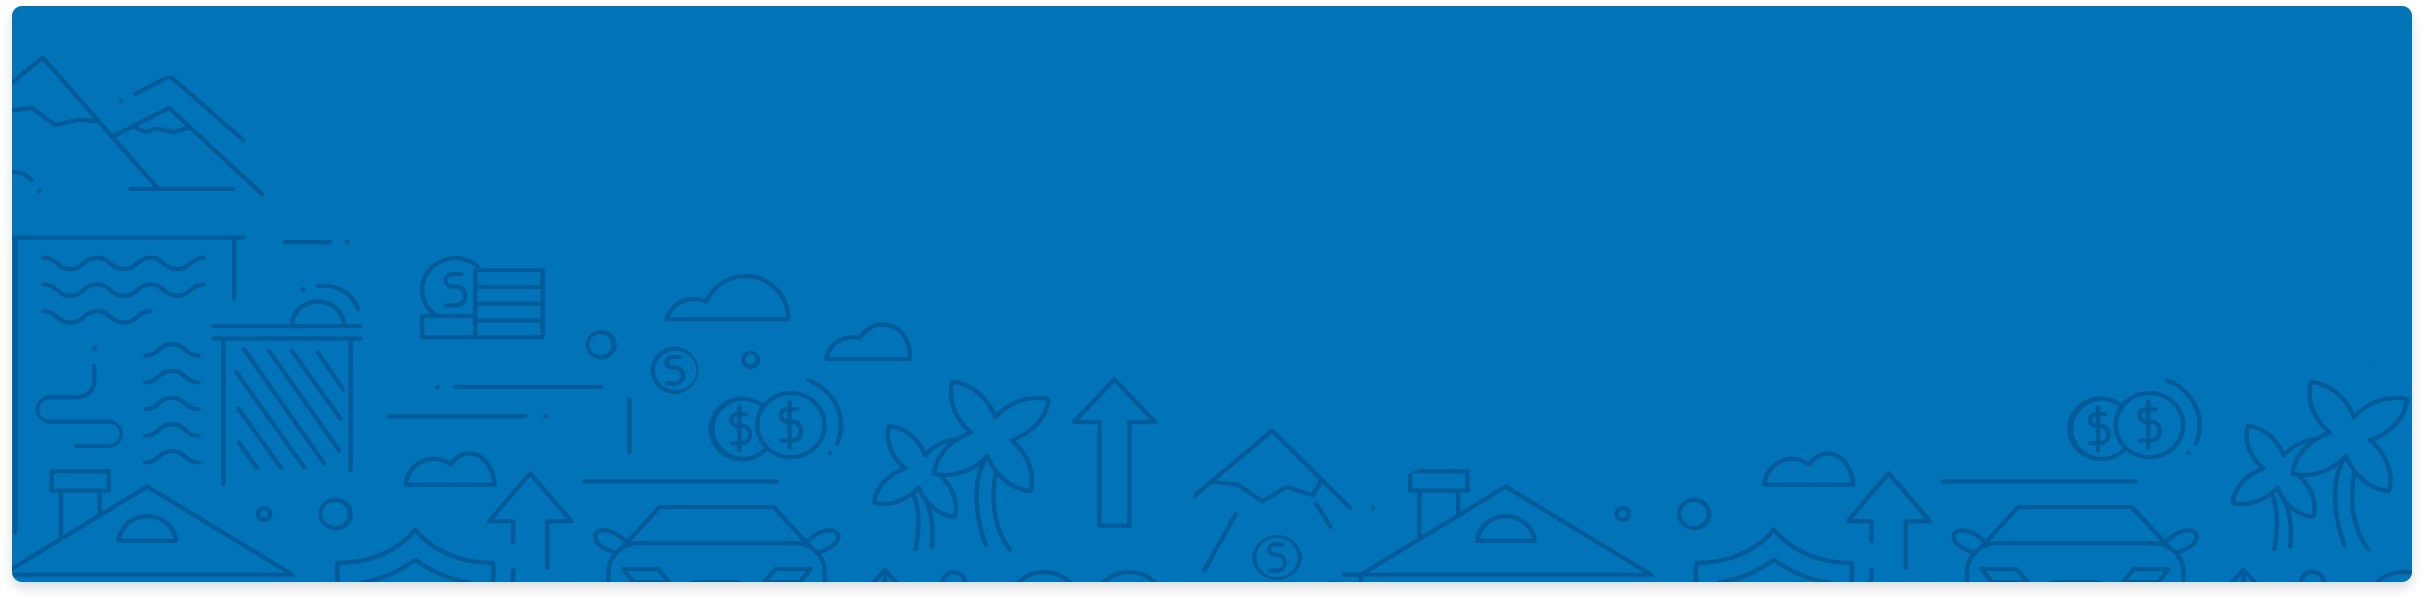
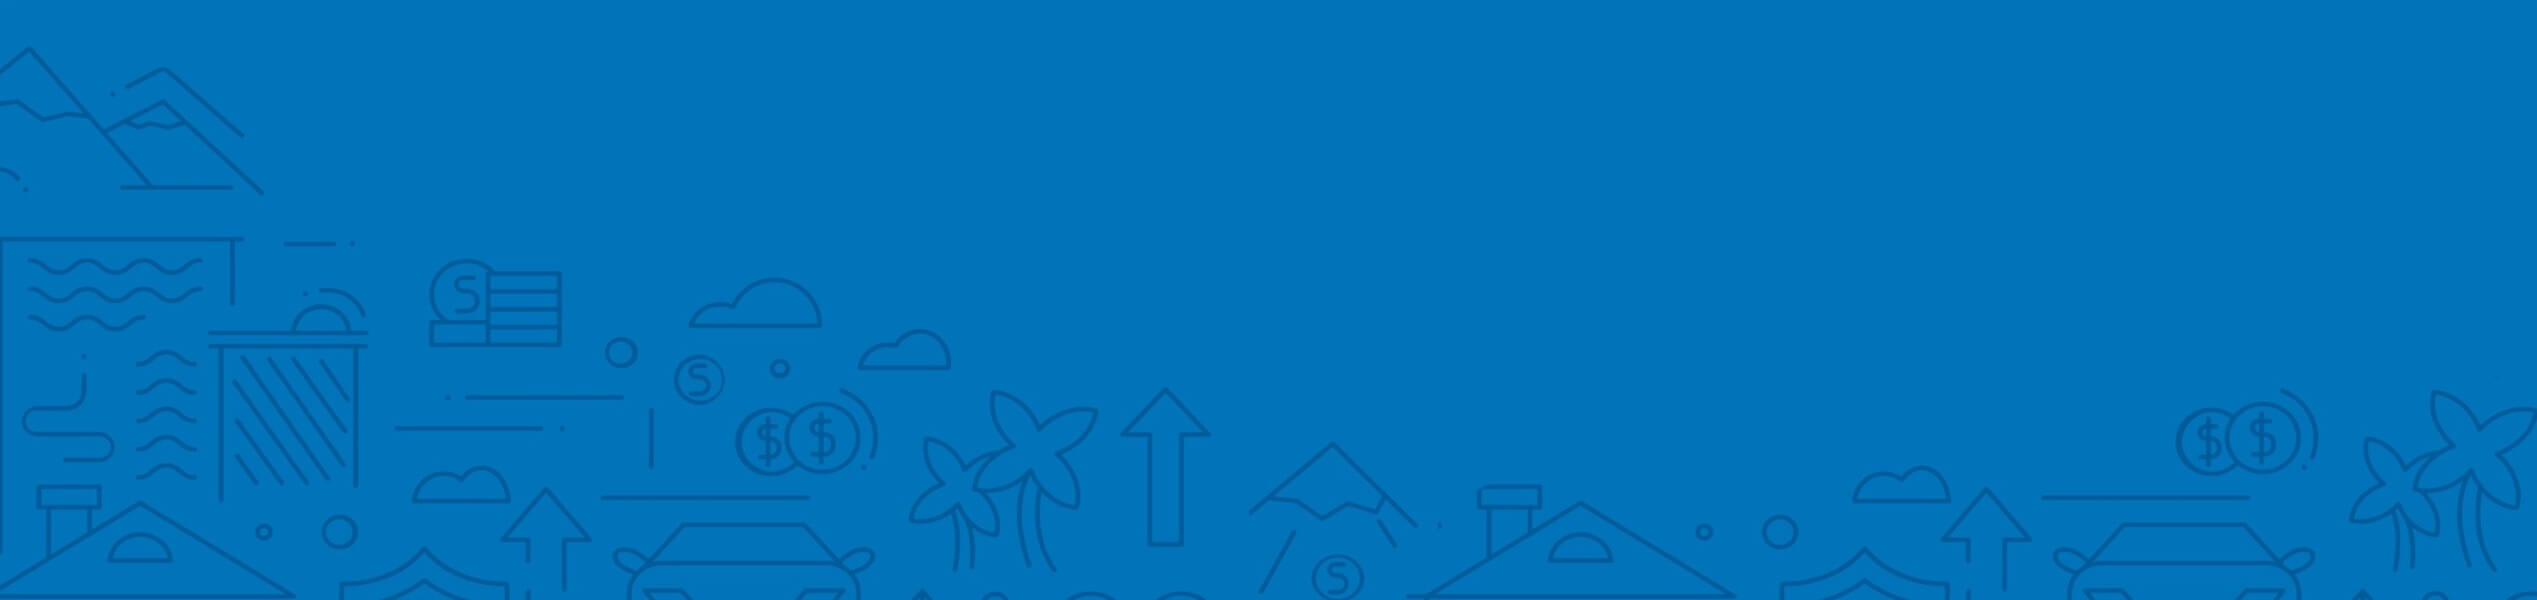
optimized images and cleaned up backgrounds

diff --git a/mobile/mobile.scss b/mobile/mobile.scss
@@ -90,3 +90,14 @@ $gds-font-family: "proxima-nova", "canada-type-gibson", system-ui, BlinkMacSyste
 }
 
 // This files is for any mobile.scss that requires variables stored in Discourse like image assets.
+
+.newHere {
+  background: url($new_here_background_mobile);
+  background-size: cover;
+}
+
+.questions {
+  background: url($questions_background_mobile);
+  background-size: cover;
+  border-radius: 7px;
+}

diff --git a/src/sass/discourse/mobile_variables.scss b/src/sass/discourse/mobile_variables.scss
@@ -1,1 +1,12 @@
 // This files is for any mobile.scss that requires variables stored in Discourse like image assets.
+
+.newHere {
+  background: url($new_here_background_mobile);
+  background-size: cover;
+}
+
+.questions {
+  background: url($questions_background_mobile);
+  background-size: cover;
+  border-radius: 7px;
+}

diff --git a/common/common.scss b/common/common.scss
@@ -3550,9 +3550,6 @@ title.raw-link.raw-topic-link a{
   margin-top: 4rem;
   min-width: 320px;
   position: relative;
-}
-
-.homepage-footer{
   border-radius: 7px;
 }
 

diff --git a/src/sass/common/_footer.scss b/src/sass/common/_footer.scss
@@ -3,9 +3,6 @@
   margin-top: 4rem;
   min-width: 320px;
   position: relative;
-}
-
-.homepage-footer{
   border-radius: 7px;
 }
 
